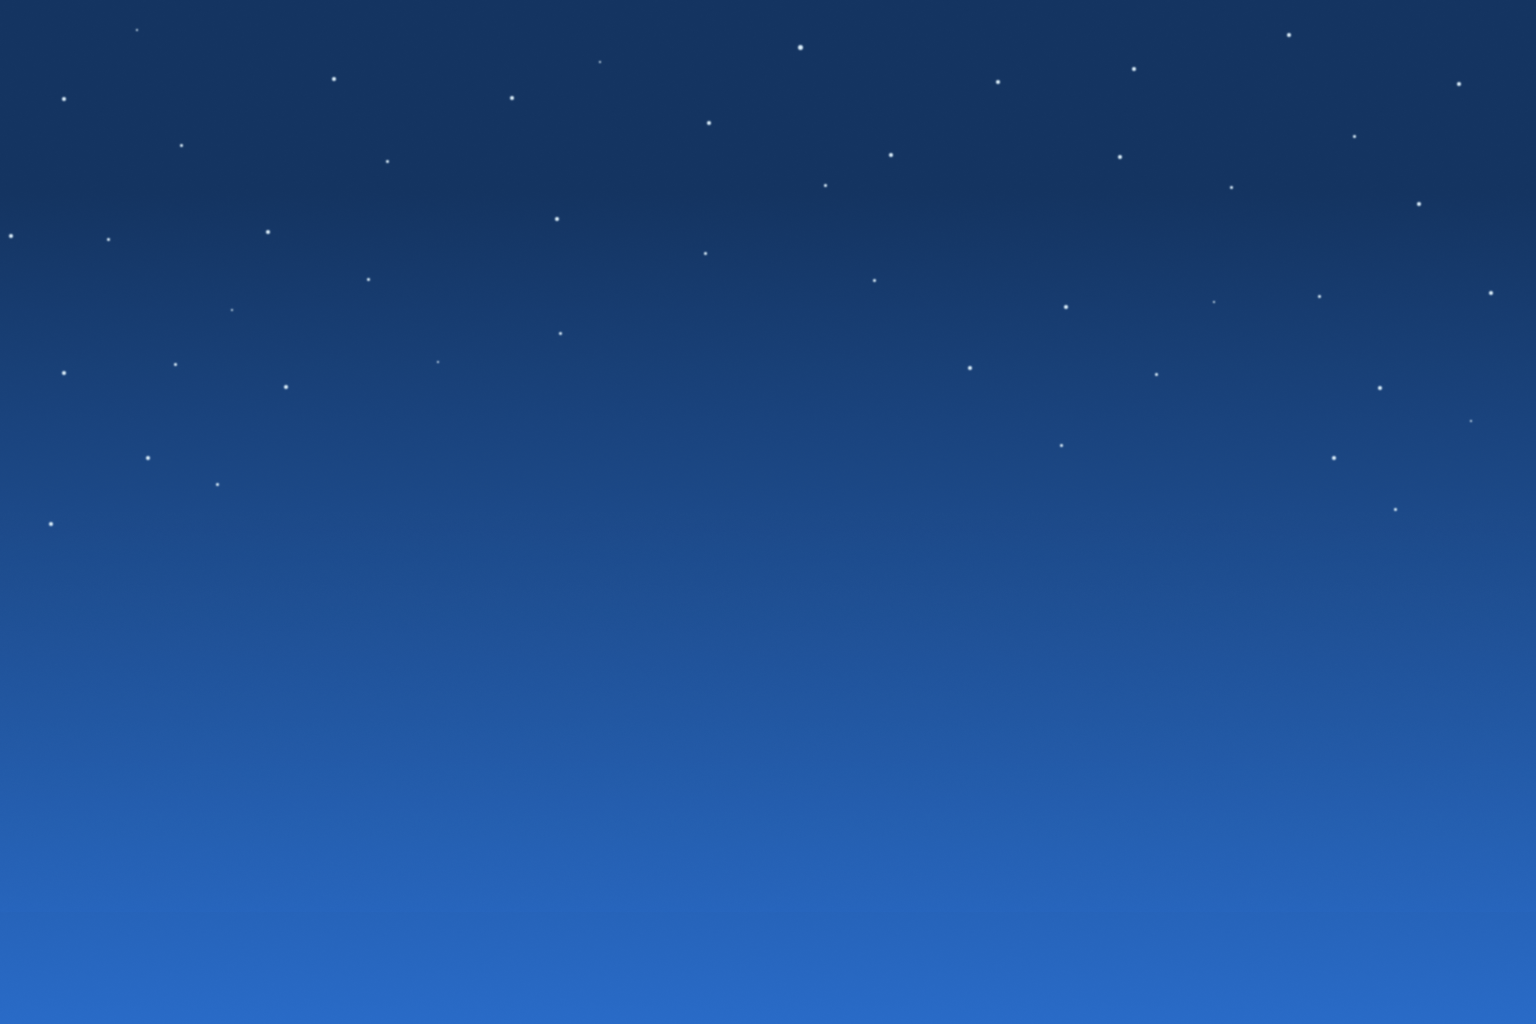
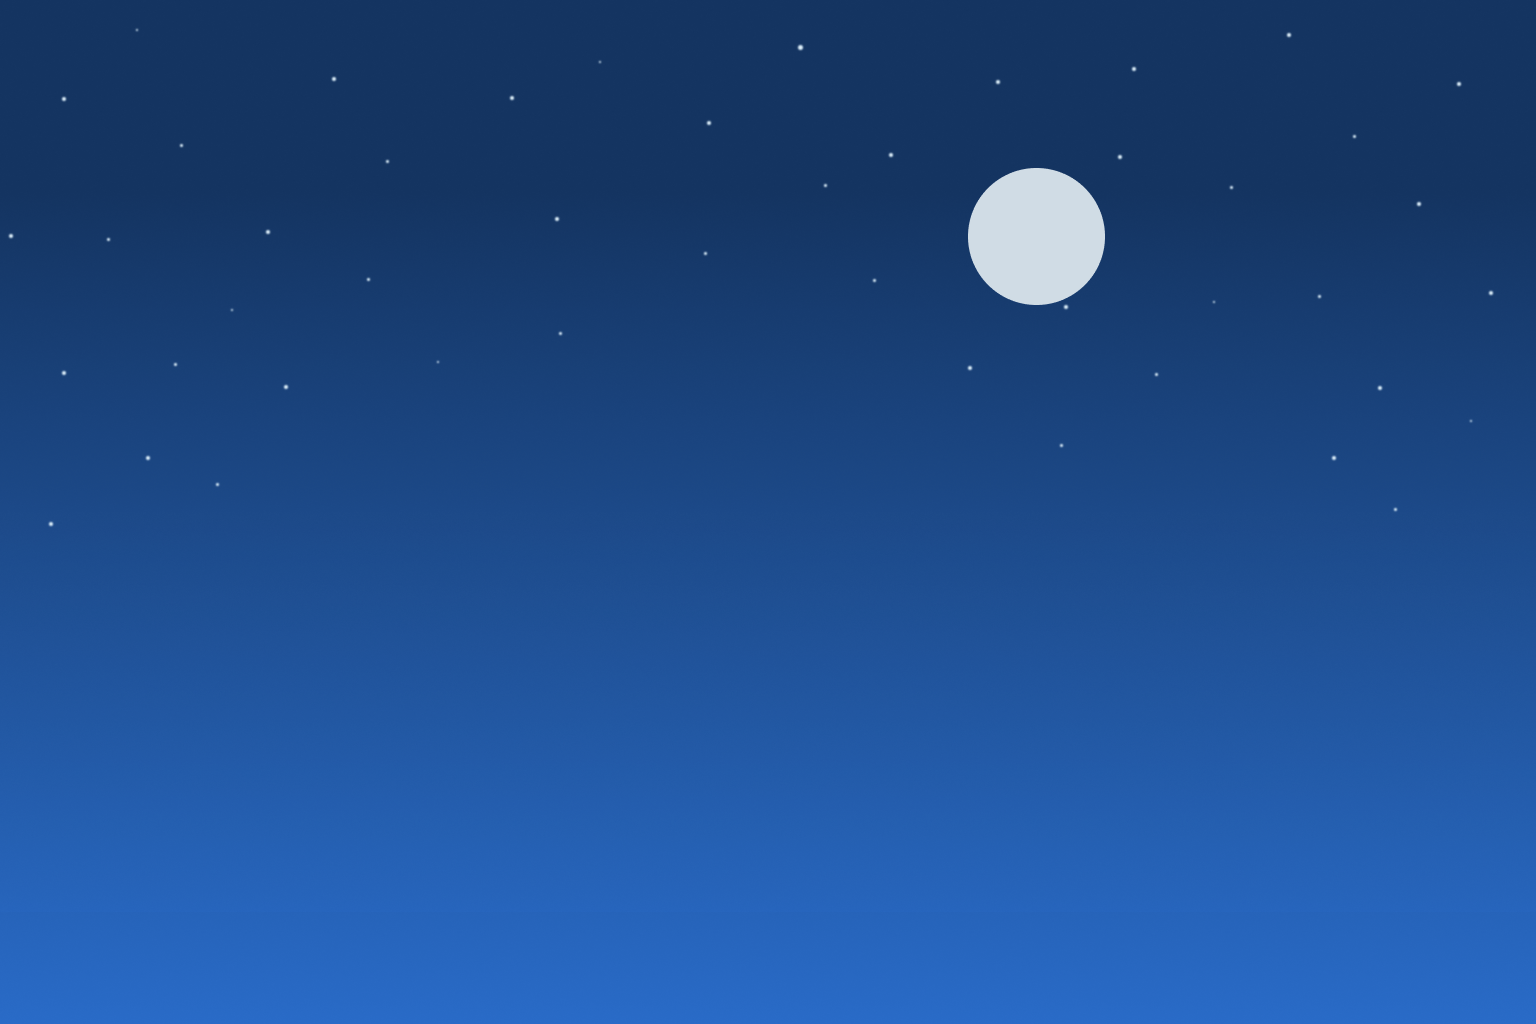
scroll changes and navbar fixes

Changed region(s): [[0.625, 0.1562, 0.7188, 0.3125]]

diff --git a/components/HeroParallax.jsx b/components/HeroParallax.jsx
@@ -20,14 +20,13 @@ export default function HeroParallax() {
                 scrollTrigger: {
                     trigger: root.current,
                     start: "top top",
-                    end: "+=120vh",     // adjust to taste
+                    end: "+=450vh",
                     scrub: true,
-                    pin: true,
                 },
                 defaults: { ease: "none" }
             })
                 .to(starsRef.current, { y: -20 }, 0)
-                .to(mountainRef.current, { y: 240, scale: 1.06, opacity: 0.2 }, 0);
+                .to(mountainRef.current, { y: 800, scale: 1.06, }, 0);
         }, root);
 
         return () => ctx.revert();
@@ -53,7 +52,7 @@ export default function HeroParallax() {
         .rocks { z-index: 3; }
         .bottomFade {
           position: absolute; left: 0; right: 0; bottom: -1px; height: 22vh;
-          background: linear-gradient(180deg, rgba(5,29,60,0) 0%, #051d3c 65%, #041730 100%);
+          background: linear-gradient(180deg, rgba(5,29,60,0) 0%, #051d3c 85%, #041730 100%);
           z-index: 4; pointer-events: none;
         }
         .hint {

diff --git a/components/layout.js b/components/layout.js
@@ -70,7 +70,7 @@ export default function Layout({ children, home, showHeader = false, showNavbar 
                     <span>listening to <a href="https://open.spotify.com/track/3wBy12K7BHKHJspUwJw8fq?si=6b9ea817f0674b5e" target="_blank" rel="noopener noreferrer">mojo pin</a> • </span>
                     <span>watching <a href="https://www.imdb.com/title/tt7160372/" target="_blank" rel="noopener noreferrer">the zone of interest</a> • </span>
                     <span>reading <a href="https://www.goodreads.com/book/show/13623848-the-song-of-achilles" target="_blank" rel="noopener noreferrer">the song of achilles</a></span>
-                    <span className={styles.signature}>© 2025 Tanner Tran. Built with Next.js & lots of love.</span>
+                    <span className={styles.signature}>© 2025 Tanner Tran. Built with Next.js & ❤.</span>
                 </div>
             </div>
         </div>

diff --git a/components/navbar.module.css b/components/navbar.module.css
@@ -16,7 +16,7 @@
   pointer-events: auto;       /* clickable */
 }
 
-/* Floating pill (centered). CSS vars are animated by GSAP */
+/* Floating pill (centered).*/
 .navbar {
   --pill-radius: 18px;
   --bg: rgba(20, 28, 34, 0.6);
@@ -54,6 +54,13 @@
   margin: 0;
   border-radius: 0;
   z-index: 10001;
+}
+
+/* ensure hand cursor for both react-scroll <Link> and Next.js <Link> */
+.items a,
+.itemLink,
+.items [role="link"] {
+  cursor: pointer;
 }
 
 /* Branding & items (unchanged from your style, trimmed for brevity) */
